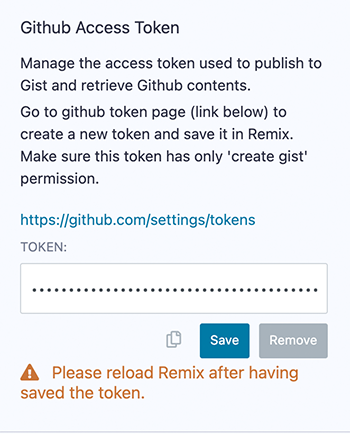
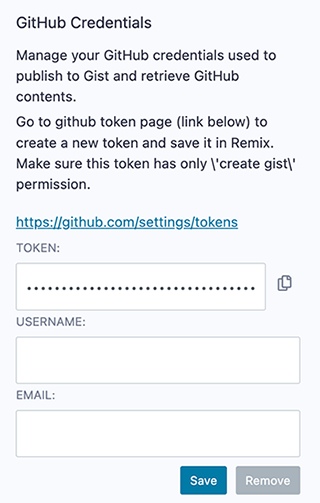
update settings content

diff --git a/docs/settings.md b/docs/settings.md
@@ -3,6 +3,8 @@ Settings
 
 To get to **Settings** click the gear at the very bottom of the icon panel. 
 
+### Reset Button
+The Reset button at the top of the Setting panel will reset all of the settings back to the default.    
 ### General Settings 
 
 ![](images/a-settings-general.png)
@@ -15,9 +17,39 @@ To get to **Settings** click the gear at the very bottom of the icon panel.
 
 ### Github Access Token
 
-For performing Git operations on Github and for creating GISTs, it is may be necessary to input an access token - a token that has the specific permissions for your git command. Depending on the operation, you may need to also input your Github username & email address.  Remix does not save your password info outside of your browser's localstorage.  [https://github.com/settings/tokens](https://github.com/settings/tokens)
+When performing Git operations on Github and when creating GISTs, it may be necessary to input an access token.  This token has the specific permissions for your Git commands. Depending on the operation, you may also need to also input your Github username & email address.  Remix does not save your password info outside of your browser's localstorage.  [https://github.com/settings/tokens](https://github.com/settings/tokens)
 
 ![](images/a-settings-gh-token.png)
+
+### Etherscan Access Token
+
+You need to input your Etherscan access token when debugging verified contracts with the Remix Debugger.  When verifying a contract with the Etherscan plugin, you need to put the API key in that plugin and not in the Settings panel.   
+
+Click [here](https://etherscan.io/myapikey) to get your Etherscan API key.
+
+![](images/a-settings-etherscan.png)
+
+### Swarm Settings
+
+In the Solidity Compiler, after the compilation is completed, there is a button to publish to Swarm.  
+
+![](images/a-settings-pub-swarm.png)
+
+Without putting in an address & postage stamp, you'll be using the public gateway, which may not persist you content as surely as if you put in your own info.
+
+![](images/a-settings-swarm.png)
+
+### IPFS Settings
+
+Just like the Swarm settings above, IPFS settings are for publishing your contracts to IPFS from the Solidity Compiler. 
+- If you do not put in any settings here, you will be using the public INFURA node. This will not guarantee your data will persist.
+
+Other options are to:
+- Use your own INFURA IPFS node. This requires a subscription. [Learn more](https://infura.io/product/ipfs)
+- Use any external IPFS which doesn’t require any authentification.
+- Use your own local ipfs node (which usually runs under http://localhost:5001)
+
+![](images/a-settings-ipfs.png)
 
 ### Themes
 Choose themes here.  The Dark & Light themes are the themes that the Remix team actively maintains.
